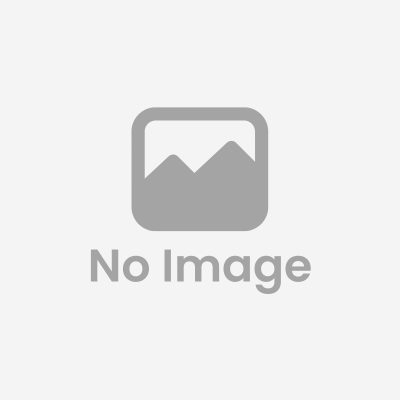
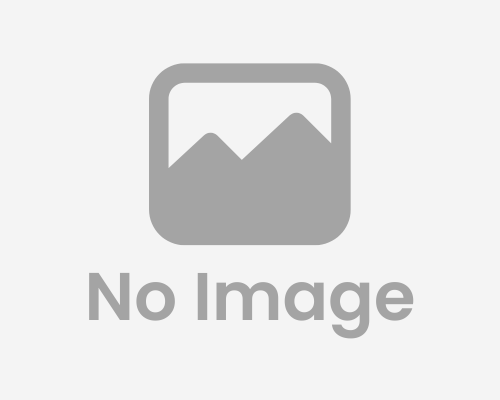
no image something
di ko maexplain basta sa no image lang siya, sana maayos din tignan sa inyo

Changed region(s): [[0.18, 0.15, 0.84, 0.87]]

diff --git a/src/app/main/components/listofmaterials/components/books/book-details-popup/book-details-popup.component.scss b/src/app/main/components/listofmaterials/components/books/book-details-popup/book-details-popup.component.scss
@@ -97,7 +97,10 @@ h1 {
 
 .details .mat-image {
     flex-basis: 50%;
-    padding: 10px;
+    margin: 10px;
+    background-color: var(--container-color);
+    align-content: center;
+    text-align-last: center;
 
     .cover {
         width: 100%;
@@ -160,7 +163,16 @@ h1 {
     font-weight: 400;
     width: 100px;
     letter-spacing: 1px;
+    box-shadow: 0px 3px 3px rgba(37, 37, 37, 0.322);
     transition: .3s;
+    transform: translate(0px, 0px);
+}
+
+.button-container button:hover {
+    box-shadow: 0px 8px 15px -10px rgb(125, 125, 125);
+    transform: translate(0px, -1px);
+    cursor: pointer;
+    text-decoration: none;
 }
 
 .delete-btn {

diff --git a/src/app/main/components/archive/components/academicprojects/details/details.component.html b/src/app/main/components/archive/components/academicprojects/details/details.component.html
@@ -11,9 +11,9 @@
                 <div class="detailsbody">
                     <div class="body">
                         <div class="details">
-                            <!-- element IMAGE -->
+                            <!-- PROJECT IMAGE -->
                             <div class="mat-image">
-                                <img class="cover" alt="element image" [src]="element.image_url || errorImage">
+                                <img class="cover" alt="project image" [src]="element.image_url || errorImage">
                             </div>
 
                             <table class="details-table">

diff --git a/src/app/main/components/archive/components/periodicals/components/details/details.component.html b/src/app/main/components/archive/components/periodicals/components/details/details.component.html
@@ -18,7 +18,7 @@
                         <div class="details">
                             <!-- MATERIAL IMAGE -->
                             <div class="mat-image">
-                                <img class="cover" alt="element image" [src]="element.image_url || errorImage">
+                                <img class="cover" alt="periodical image" [src]="element.image_url || errorImage">
                             </div>
 
                             <table class="details-table">

diff --git a/src/app/main/components/archive/components/books/details/details.component.html b/src/app/main/components/archive/components/books/details/details.component.html
@@ -14,7 +14,7 @@
                         <div class="details">
                             <!-- MATERIAL IMAGE -->
                             <div class="mat-image">
-                                <img class="cover" alt="element image" [src]="element.image_url || errorImage">
+                                <img class="cover" alt="book image" [src]="element.image_url || errorImage">
                             </div>
 
                             <table class="details-table">

diff --git a/src/app/main/components/academicprojects/components/details-popup/details-popup.component.scss b/src/app/main/components/academicprojects/components/details-popup/details-popup.component.scss
@@ -97,7 +97,10 @@ h1 {
 
 .details .mat-image {
     flex-basis: 50%;
-    padding: 10px;
+    margin: 10px;
+    background-color: var(--container-color);
+    align-content: center;
+    text-align-last: center;
 
     .cover {
         width: 100%;

diff --git a/src/app/main/components/archive/components/academicprojects/details/details.component.scss b/src/app/main/components/archive/components/academicprojects/details/details.component.scss
@@ -97,7 +97,10 @@ h1 {
 
 .details .mat-image {
     flex-basis: 50%;
-    padding: 10px;
+    margin: 10px;
+    background-color: var(--container-color);
+    align-content: center;
+    text-align-last: center;
 
     .cover {
         width: 100%;

diff --git a/src/app/main/components/archive/components/books/details/details.component.scss b/src/app/main/components/archive/components/books/details/details.component.scss
@@ -97,7 +97,10 @@ h1 {
 
 .details .mat-image {
     flex-basis: 50%;
-    padding: 10px;
+    margin: 10px;
+    background-color: var(--container-color);
+    align-content: center;
+    text-align-last: center;
 
     .cover {
         width: 100%;

diff --git a/src/app/main/components/archive/components/periodicals/components/details/details.component.scss b/src/app/main/components/archive/components/periodicals/components/details/details.component.scss
@@ -97,7 +97,10 @@ h1 {
 
 .details .mat-image {
     flex-basis: 50%;
-    padding: 10px;
+    margin: 10px;
+    background-color: var(--container-color);
+    align-content: center;
+    text-align-last: center;
 
     .cover {
         width: 100%;

diff --git a/src/app/main/components/listofmaterials/components/periodical/components/perio-details/perio-details.component.scss b/src/app/main/components/listofmaterials/components/periodical/components/perio-details/perio-details.component.scss
@@ -97,7 +97,10 @@ h1 {
 
 .details .mat-image {
     flex-basis: 50%;
-    padding: 10px;
+    margin: 10px;
+    background-color: var(--container-color);
+    align-content: center;
+    text-align-last: center;
 
     .cover {
         width: 100%;
